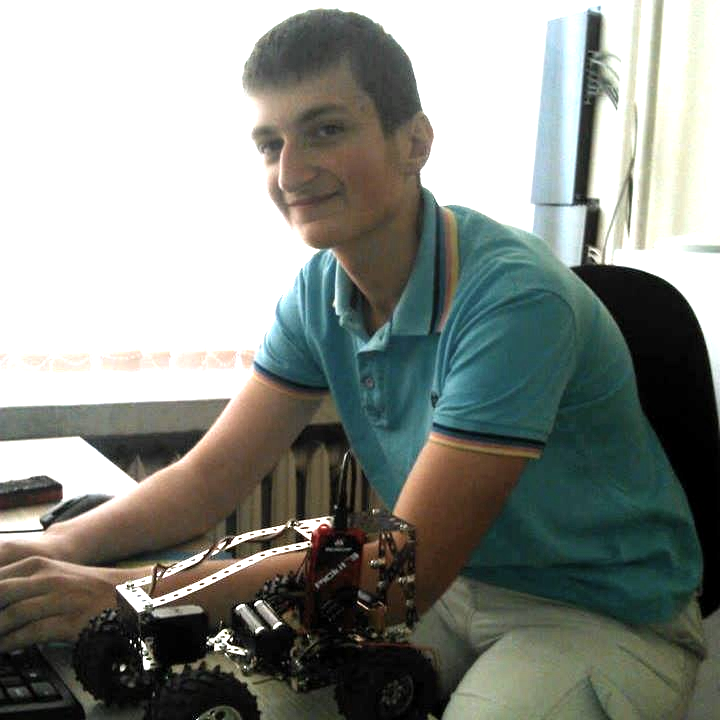
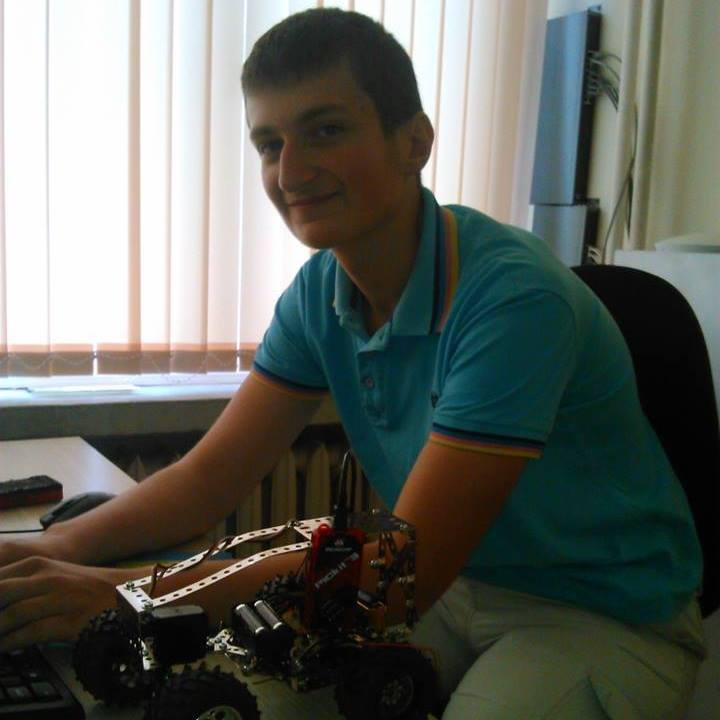
first commit

diff --git a/members/iasen_georgiev.html b/members/iasen_georgiev.html
@@ -3,13 +3,13 @@
 <!--[if IE 9]> <html lang="en" class="ie9"> <![endif]-->  
 <!--[if !IE]><!--> <html lang="en"> <!--<![endif]-->  
 <head>
-    <title>Radoslav Iliev</title>
+    <title>Yasen Georgiev</title>
     <!-- Meta -->
     <meta charset="utf-8">
     <meta http-equiv="X-UA-Compatible" content="IE=edge">
     <meta name="viewport" content="width=device-width, initial-scale=1.0">
-	<meta name="description" content="Radoslav Iliev">
-    <meta name="author" content="Radoslav Iliev">    
+	<meta name="description" content="Yasen Georgiev">
+    <meta name="author" content="Yasen Georgiev">    
     <link rel="shortcut icon" href="favicon.ico">  
     <link href='https://fonts.googleapis.com/css?family=Lato:300,400,300italic,400italic' rel='stylesheet' type='text/css'>
 	<link href='https://fonts.googleapis.com/css?family=Montserrat:400,700' rel='stylesheet' type='text/css'>
@@ -49,17 +49,14 @@
     <!-- ******HEADER****** --> 
     <header class="header">
         <div class="container">                       
-			<img class="profile-image img-responsive pull-left" src="./img/evlogi_hristov.jpg" alt="Evlogi Hristov" />
+			<img class="profile-image img-responsive pull-left" src="./img/iasen_georgiev.jpg" alt="Radoslav Iliev" />
             <div class="profile-content pull-left">
-                <h1 class="name">Evlogi Hristov</h1>
+                <h1 class="name">Yasen Georgiev</h1>
                 <h2 class="desc"></h2>   
                 <ul class="social list-inline">
-                    <li><a href="https://www.facebook.com/evlogi.hristov.7"><i class="fa fa-facebook"></i></a></li>                   
-                    <li><a href="https://www.linkedin.com/in/evlogihristov"><i class="fa fa-linkedin"></i></a></li>                   
-                    <li class="last-item"><a href="https://github.com/evlogihr"><i class="fa fa-github-alt"></i></a></li>                  
                 </ul> 
             </div><!--//profile-->
-            <a class="btn btn-cta-primary pull-right" href="https://www.facebook.com/evlogi.hristov.7" target="_blank"><i class="fa fa-paper-plane"></i> Contact Me</a>              
+			<!--<a class="btn btn-cta-primary pull-right" href="https://www.facebook.com/rado99" target="_blank"><i class="fa fa-paper-plane"></i> Contact Me</a>-->
         </div><!--//container-->
     </header><!--//header-->
     <div class="container sections-wrapper">
@@ -67,9 +64,9 @@
             <div class="primary col-md-8 col-sm-12 col-xs-12">
                 <section class="about section">
                     <div class="section-inner">
-                        <h2 class="heading">About Me</h2>
+                        <h2 class="heading">About Him</h2>
                         <div class="content">
-							<p></p>
+							<p>Yasen Georgiev is a dreamer and idealist. He sees the world around them in bold and inspiring colors. Committed to create what you imagine. The enthusiasm and inspiration he invested in software that does. DNA constructs technical platform for easier parenting - GoogKnight. Believes in team play, creating value and real people.</p>
                         </div><!--//content-->
                     </div><!--//section-inner-->                 
                 </section><!--//section-->
@@ -79,7 +76,7 @@
     <!-- ******FOOTER****** --> 
     <footer class="footer">
         <div class="container text-center">
-			Copyright <i class="fa fa-copyright"></i> Evlogi Hristov 2016-2017
+			Copyright <i class="fa fa-copyright"></i> Yasen Georgiev 2016-2017
         </div><!--//container-->
     </footer><!--//footer-->
  

diff --git a/members/alex/index.html b/members/alex/index.html
@@ -53,7 +53,7 @@
             <img class="profile-image img-responsive pull-left" src="assets/images/profile.png" alt="Alex Tsvetanov" />
             <div class="profile-content pull-left">
                 <h1 class="name">Alex Tsvetanov</h1>
-                <h2 class="desc">Ninja</h2>   
+                <h2 class="desc">Full Stack Developer</h2>   
                 <ul class="social list-inline">
                     <li><a href="https://www.facebook.com/alex.tsvetanov.2002"><i class="fa fa-facebook"></i></a></li>                   
 <!--
@@ -322,6 +322,13 @@
                                 </div><!--//item-->
                                 
                                 <div class="item">
+				    <h3 class="level-title">Python<span class="level-label">Senior</span></h3>
+                                    <div class="level-bar">
+                                        <div class="level-bar-inner" data-level="90%">
+                                        </div>                                      
+                                    </div><!--//level-bar-->                                 
+                                </div><!--//item-->
+                                <div class="item">
 				    <h3 class="level-title">Bootstrap, HTML5 &amp;<br> CSS3<span class="level-label">Senior</span></h3>
                                     <div class="level-bar">
                                         <div class="level-bar-inner" data-level="90%">
@@ -431,10 +438,15 @@
                         <h2 class="heading">Favourite coding bands</h2>
                         <div class="content">
                             <ul class="list-unstyled">
-                                <li><i class="fa fa-headphones"></i> <a href="https://en.wikipedia.org/wiki/Linkin_Park">Linkin Park</a></li>
+                                <li><i class="fa fa-headphones"></i> <a href="https://en.wikipedia.org/wiki/Megaherz">Megaherz</a></li>
+                                <li><i class="fa fa-headphones"></i> <a href="https://en.wikipedia.org/wiki/Through_Fire">Through fire</a></li>
+                                <li><i class="fa fa-headphones"></i> <a href="https://en.wikipedia.org/wiki/Sabaton_(band)">Sabaton</a></li>
+                                <li><i class="fa fa-headphones"></i> <a href="https://en.wikipedia.org/wiki/Korpiklaani">Korpiklaani</a></li>
+                                <li><i class="fa fa-headphones"></i> <a href="https://en.wikipedia.org/wiki/Amon_Amarth">Amon Amarth</a></li>
+                                <li><i class="fa fa-headphones"></i> <a href="https://en.wikipedia.org/wiki/Nightwish">Nightwish</a></li>
                                 <li><i class="fa fa-headphones"></i> <a href="https://en.wikipedia.org/wiki/Disturbed_(band)">Disturbed</a></li>
+                                <li><i class="fa fa-headphones"></i> <a href="https://en.wikipedia.org/wiki/Linkin_Park">Linkin Park</a></li>
                                 <li><i class="fa fa-headphones"></i> <a href="https://bg.wikipedia.org/wiki/Торнадо_(група)">Tornado</a></li>
-                                <li><i class="fa fa-headphones"></i> <a href="https://en.wikipedia.org/wiki/Slavi_Trifonov">Slavi Trifonov & Ku-Ku Band</a></li>
                             </ul>
                         </div><!--//content-->
                     </div><!--//section-inner-->

diff --git a/members/radoslav_iliev.html b/members/radoslav_iliev.html
@@ -49,7 +49,7 @@
     <!-- ******HEADER****** --> 
     <header class="header">
         <div class="container">                       
-			<img class="profile-image img-responsive pull-left" src="./img/radoslav_iliev.png" style="height: 180px !important" alt="Radoslav Iliev" />
+			<img class="profile-image img-responsive pull-left" src="./img/radoslav_iliev.png" alt="Radoslav Iliev" />
             <div class="profile-content pull-left">
                 <h1 class="name">Radoslav Iliev</h1>
                 <h2 class="desc">Student</h2>   

diff --git a/index.html b/index.html
@@ -123,6 +123,13 @@
 									<p>The Professional School of Computer Technologies, Pravets, 11<sup>-th</sup> grade.</p>
 								</div>
 								<div class="person col-md-4">
+									<a href="/members/iasen_georgiev">
+										<img src="/members/img/iasen_georgiev.png" >
+										<h2>Yasen Georgiev</h2>
+									</a>
+									<h3>Trainer</h3>
+								</div>
+								<div class="person col-md-4">
 									<a href="/members/evlogi_hristov">
 										<img src="/members/img/evlogi_hristov.jpg" >
 										<h2>Evlogi Hristov</h2>

diff --git a/assets/css/styles.css b/assets/css/styles.css
@@ -7,3 +7,8 @@ body{font-family:Lato,arial,sans-serif;color:#434343;background:#D6DDE1;font-siz
 {
 	height: 150px
 }
+
+.profile-image
+{
+	height: 250px
+}
